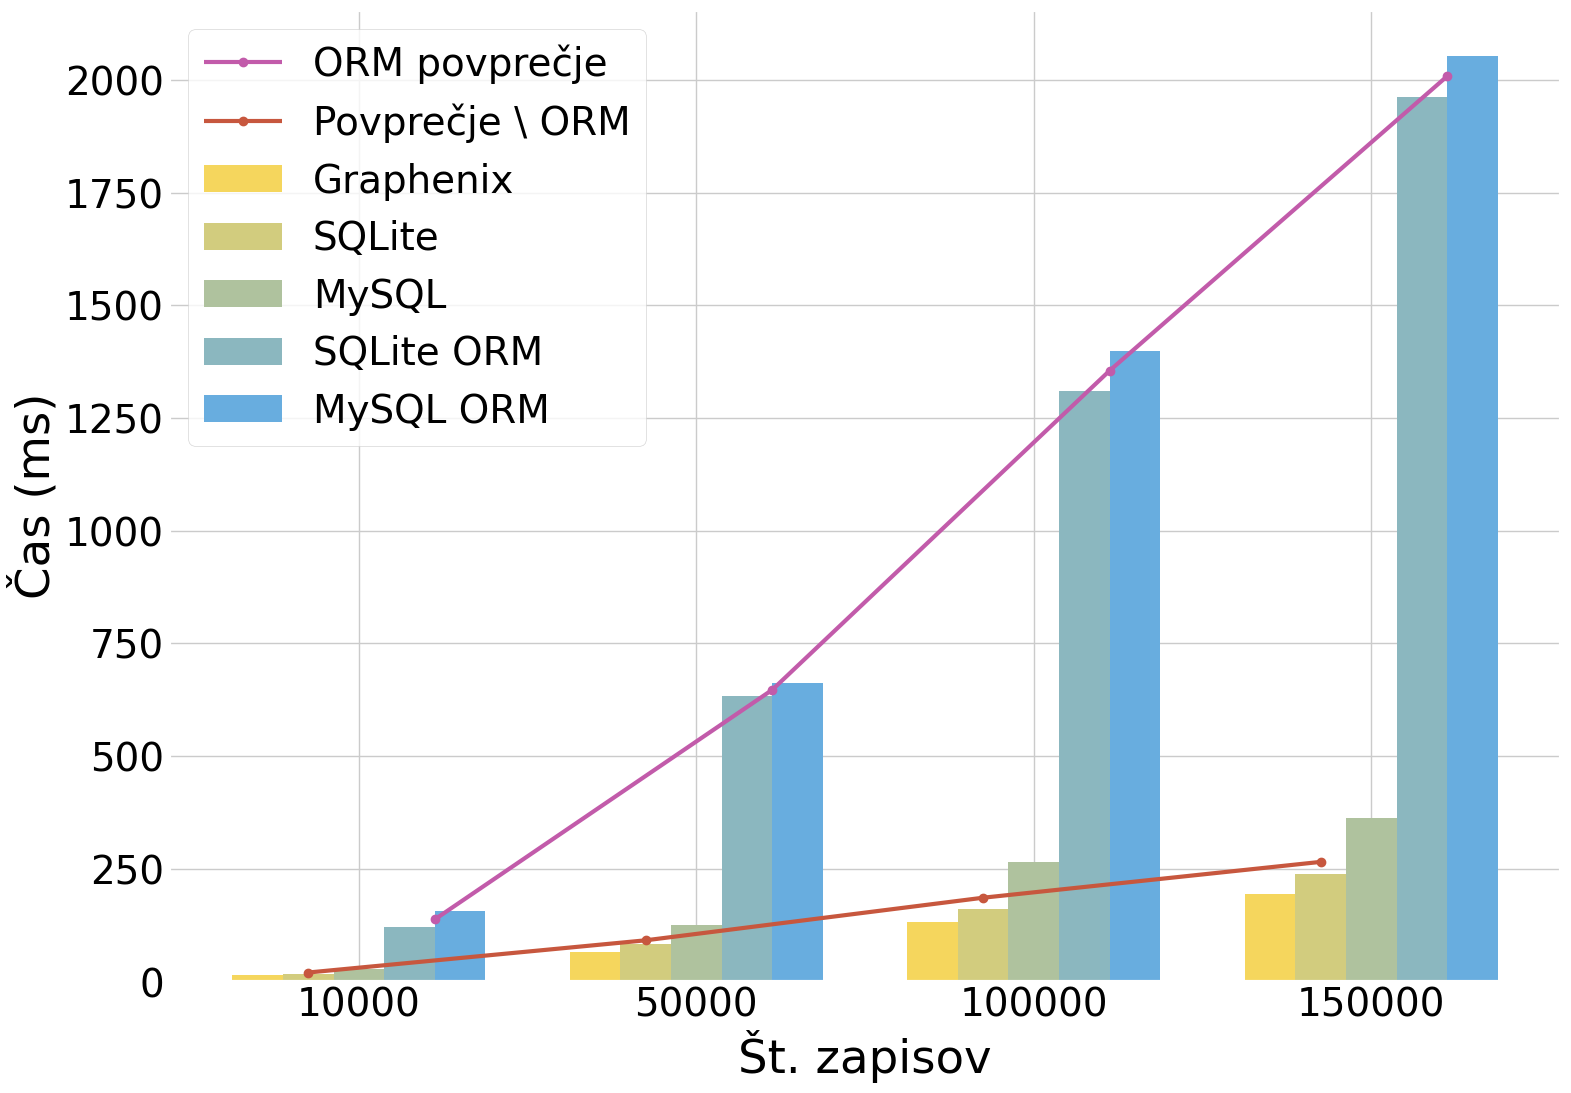
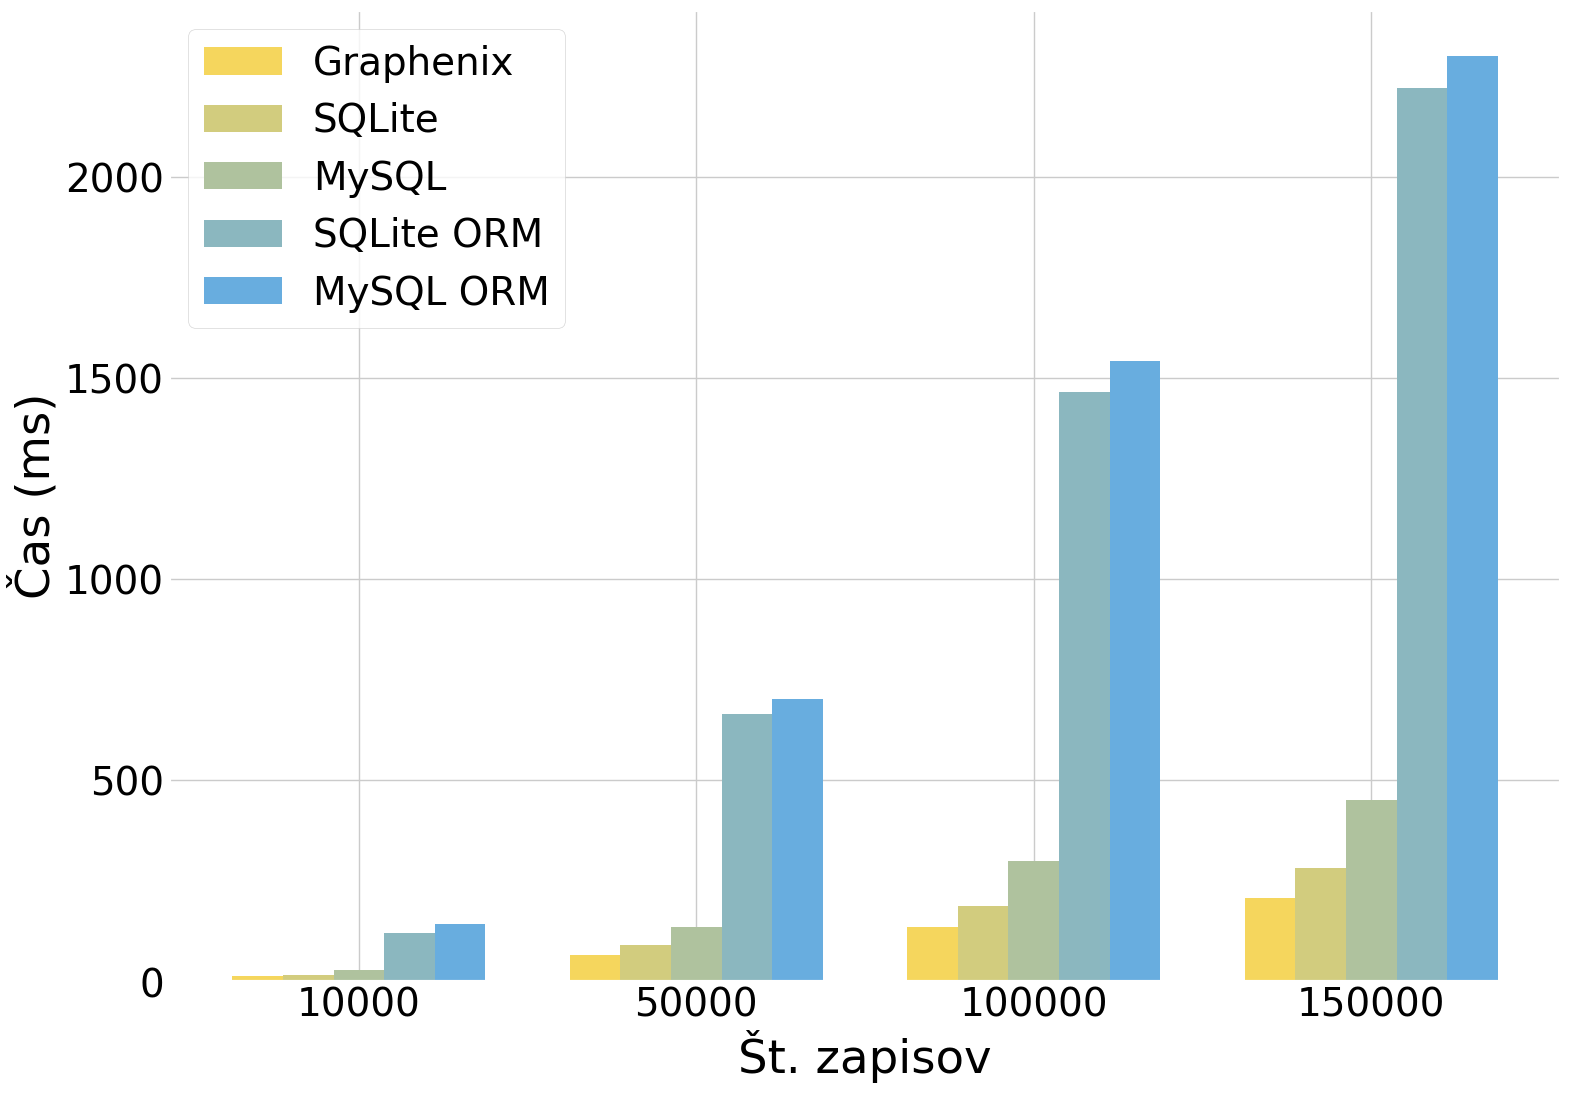
- insert graph update - read graph update

diff --git a/analysis/indexinsert/graph.py b/analysis/indexinsert/graph.py
@@ -25,17 +25,17 @@ def main():
     plt.rcParams['figure.facecolor'] = 'white'
     plt.rcParams['axes.facecolor'] = 'white'
     plt.rcParams['axes.edgecolor'] = 'white'
-    plt.rcParams.update({'font.size': 2 * plt.rcParams['font.size']})
+    plt.rcParams.update({'font.size': 1.2 * plt.rcParams['font.size']})
 
     x_values = np.arange(len(sizes))
-    fig, ax = plt.subplots(figsize=(16, 12))
+    fig, ax = plt.subplots(figsize=(10, 7))
 
-    ax.plot(x_values, matrix[0], label='Graphenix', marker='o', linewidth=3)
-    ax.plot(x_values, matrix[5], label='Graphenix množično', marker='o', linewidth=3)
-    ax.plot(x_values, matrix[1], label='SQLite ORM', marker='o', linewidth=3)
-    ax.plot(x_values, matrix[2], label='MySQL ORM', marker='o', linewidth=3)
-    ax.plot(x_values, matrix[3], label='SQLite', marker='o', linewidth=3)
-    ax.plot(x_values, matrix[4], label='MySQL', marker='o', linewidth=3)
+    ax.plot(x_values, matrix[0], ':', label='Graphenix', marker='o', markersize=10, linewidth=2, dashes=(2, 7))
+    ax.plot(x_values, matrix[5], ':', label='Graphenix množično', marker='o', markersize=10, linewidth=2, dashes=(2, 7))
+    ax.plot(x_values, matrix[1], ':', label='SQLite ORM', marker='o', markersize=10, linewidth=2, dashes=(2, 7))
+    ax.plot(x_values, matrix[2], ':', label='MySQL ORM', marker='o', markersize=10, linewidth=2, dashes=(2, 7))
+    ax.plot(x_values, matrix[3], ':', label='SQLite', marker='o', markersize=10, linewidth=2, dashes=(2, 7))
+    ax.plot(x_values, matrix[4], ':', label='MySQL', marker='o', markersize=10, linewidth=2, dashes=(2, 7))
 
     # Set labels and title
     ax.set_xlabel('Št. zapisov')

diff --git a/analysis/singleinsert/graph.py b/analysis/singleinsert/graph.py
@@ -26,17 +26,17 @@ def main():
     plt.rcParams['axes.facecolor'] = 'white'
     plt.rcParams['axes.edgecolor'] = 'white'
 
-    plt.rcParams.update({'font.size': 2 * plt.rcParams['font.size']})
+    plt.rcParams.update({'font.size': 1.2 * plt.rcParams['font.size']})
 
     x_values = np.arange(len(sizes))
-    fig, ax = plt.subplots(figsize=(16, 12))
+    fig, ax = plt.subplots(figsize=(10, 7))
 
-    ax.plot(x_values, matrix[0], label='Graphenix', marker='o', linewidth=4)
-    ax.plot(x_values, matrix[5], label='Graphenix množično', marker='o', linewidth=4)
-    ax.plot(x_values, matrix[1], label='SQLite ORM', marker='o', linewidth=4)
-    ax.plot(x_values, matrix[2], label='MySQL ORM', marker='o', linewidth=4)
-    ax.plot(x_values, matrix[3], label='SQLite', marker='o', linewidth=4)
-    ax.plot(x_values, matrix[4], label='MySQL', marker='o', linewidth=4)
+    ax.plot(x_values, matrix[0], ':', label='Graphenix', marker='o', markersize=10, linewidth=2, dashes=(2, 7))
+    ax.plot(x_values, matrix[5], ':', label='Graphenix množično', marker='o', markersize=10, linewidth=2, dashes=(2, 7))
+    ax.plot(x_values, matrix[1], ':', label='SQLite ORM', marker='o', markersize=10, linewidth=2, dashes=(2, 7))
+    ax.plot(x_values, matrix[2], ':', label='MySQL ORM', marker='o', markersize=10, linewidth=2, dashes=(2, 7))
+    ax.plot(x_values, matrix[3], ':', label='SQLite', marker='o', markersize=10, linewidth=2, dashes=(2, 7))
+    ax.plot(x_values, matrix[4], ':', label='MySQL', marker='o', markersize=10, linewidth=2, dashes=(2, 7))
 
     # Set labels and title
     ax.set_xlabel('Št. zapisov')

diff --git a/analysis/singleread/graph.py b/analysis/singleread/graph.py
@@ -42,8 +42,8 @@ def main():
         orm_avg.append(np.average([col[1], col[2]]))
         no_orm_avg.append(np.average([col[0], col[3], col[4]]))
 
-    ax.plot(x_values + width * 1.5, orm_avg, marker="o", linewidth=3, label="ORM povprečje", color='#C25BAA')
-    ax.plot(x_values - width, no_orm_avg, marker="o", linewidth=3, label="Povprečje \ ORM", color='#C7573E')
+    #ax.plot(x_values + width * 1.5, orm_avg, marker="o", linewidth=3, label="ORM povprečje", color='#C25BAA')
+    #ax.plot(x_values - width, no_orm_avg, marker="o", linewidth=3, label="Povprečje \ ORM", color='#C7573E')
 
     # Set labels and title
     ax.set_xlabel('Št. zapisov')
